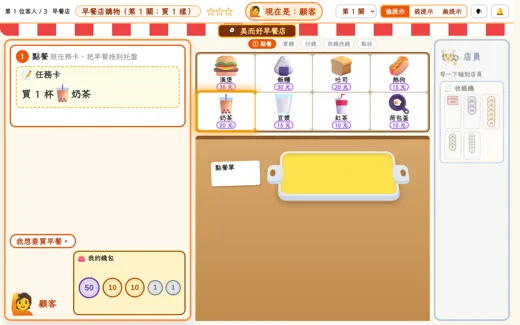
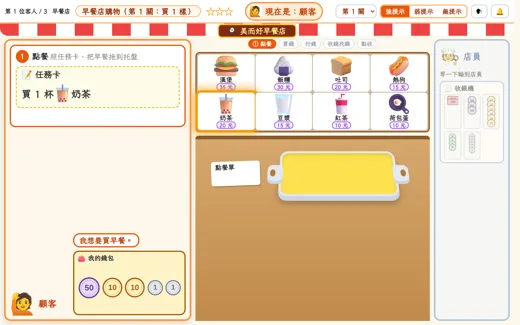
早餐店遊戲：規劃文件補第八輪回饋、重產縮圖
Claude-Session: https://claude.ai/code/session_011NSASYBWvdDhJFsSK2QUnf

Changed region(s): [[0.0, 0.7077, 0.2769, 0.7692]]

diff --git a/docs/早餐店購物遊戲_規劃.md b/docs/早餐店購物遊戲_規劃.md
@@ -34,6 +34,7 @@
 | 第 4 關：綜合任務（2026-11-09 完成） | 一樣買 2～3 個＋另一樣 1 個；算錢兩步（先乘、再加），各開一次直式「算一算」；**第一步的視窗不關、縮小淡化留在上方**，算第二步時能對照前一步；第二步的第一個數在第一步算完前顯示「？」。總價 99 元以內 |
 | 算一算視窗（2026-11-09） | 計算完成後不給正向回饋（不念讚美、不顯示讚美、不播完成音效），停 1 秒就把答案帶回遊戲 |
 | 第 4 關有意識地分步（2026-11-09） | 算錢先播「分成兩部分」動畫（托盤上的早餐分成兩組、依序圈起來，橘＝第一部分、藍＝第二部分，並念出來）；步驟卡列兩部分；「算一算」視窗標題用同一個顏色標出現在算哪一部分（附圖）；兩部分都算完，總價才帶回遊戲 |
+| 使用者回饋第八輪（2026-11-09） | 步驟之間多停 1.5 秒；「算一算」一律無提示（不出提示框與文字、錯 3 次以上才說明，不加步驟說明，九宮格不閃，九九乘法表預設收起）；視窗標題與角色對話框不再重複算式／步驟卡的話；視窗上方加托盤縮圖，金額寫在早餐下方（左組靠右、右組靠左）；付錢的對話框移到卡片左上方、改「要付＃元」，卡片不再寫「要付的錢」 |
 | 付太多 | 付的錢比總價多也算對，照樣找錢；強提示多問「有沒有剛好的付法？」 |
 | 菜單（2026-11-08 定案） | 蛋餅 25（份）、漢堡 35（個）、三明治 30（個）、鐵板麵 45（份）、飯糰 30（個）、吐司 20（片）、熱狗 15（根）、奶茶 20、豆漿 15、紅茶 10（杯）、茶葉蛋 8（顆）、荷包蛋 10（個）。開放圖示沒有蘿蔔糕、薯餅，改成飯糰、熱狗，並加吐司、荷包蛋。茶葉蛋 8 元低於圖庫 d2 下限 10，刻意保留（要用到 1、5 元硬幣），管理端改價會被驗證擋 |
 
